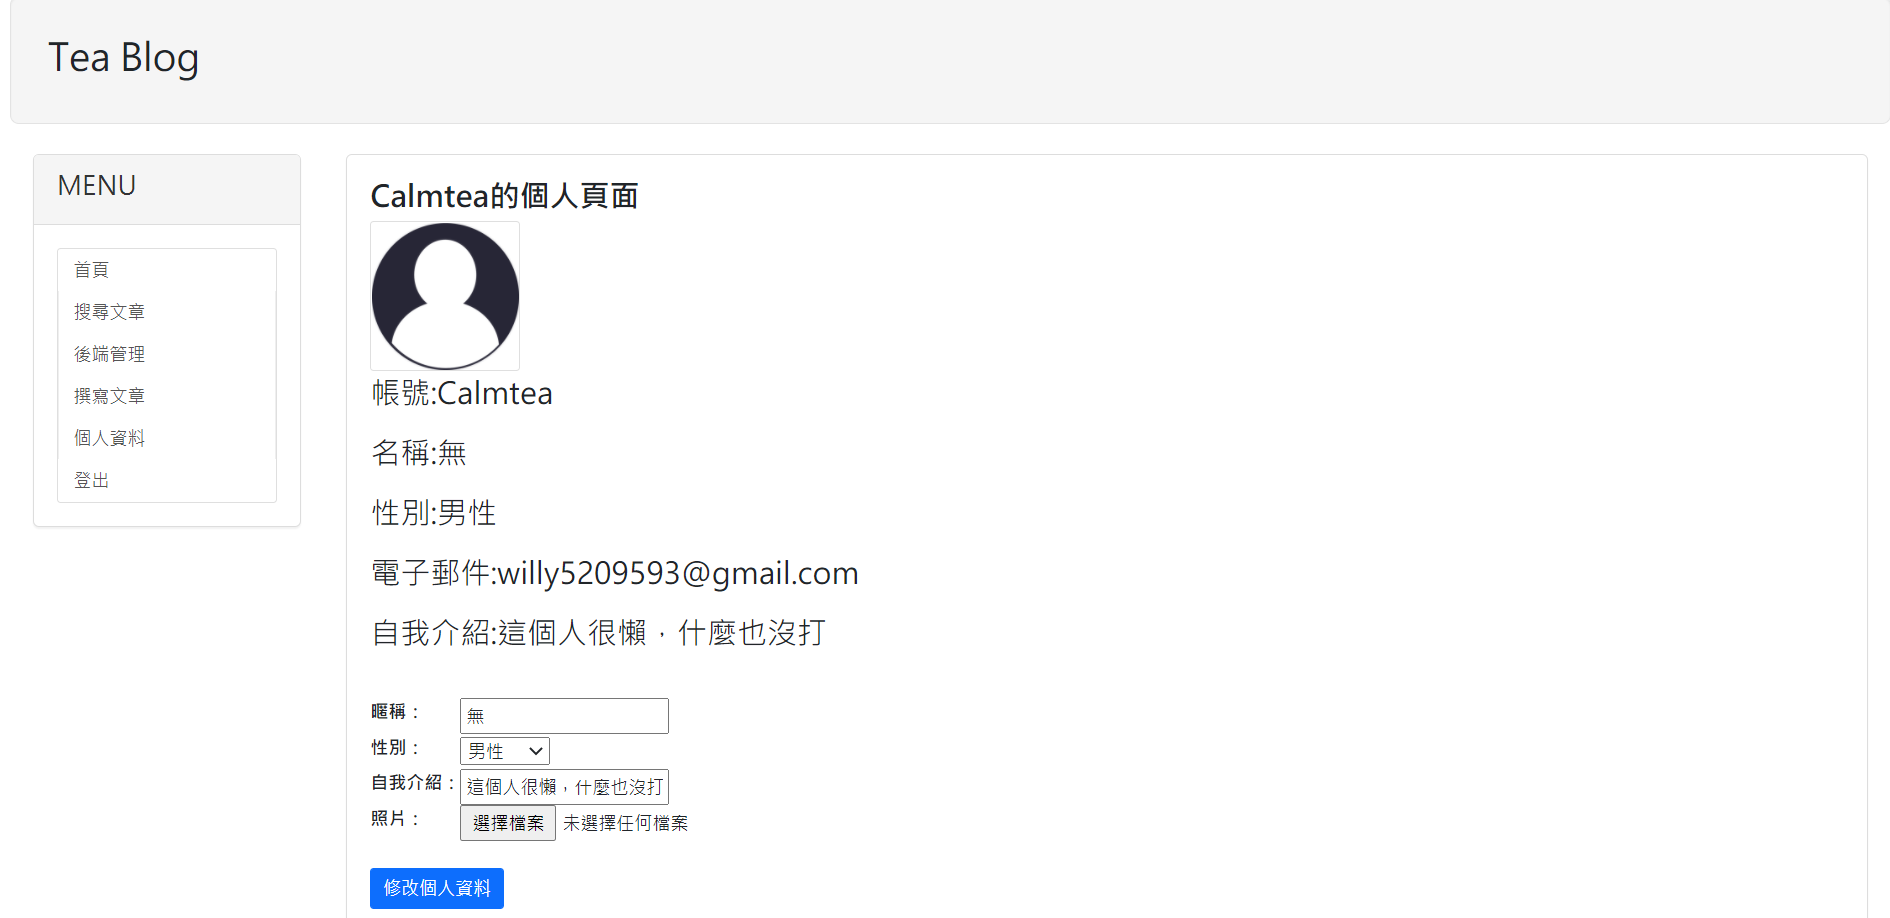
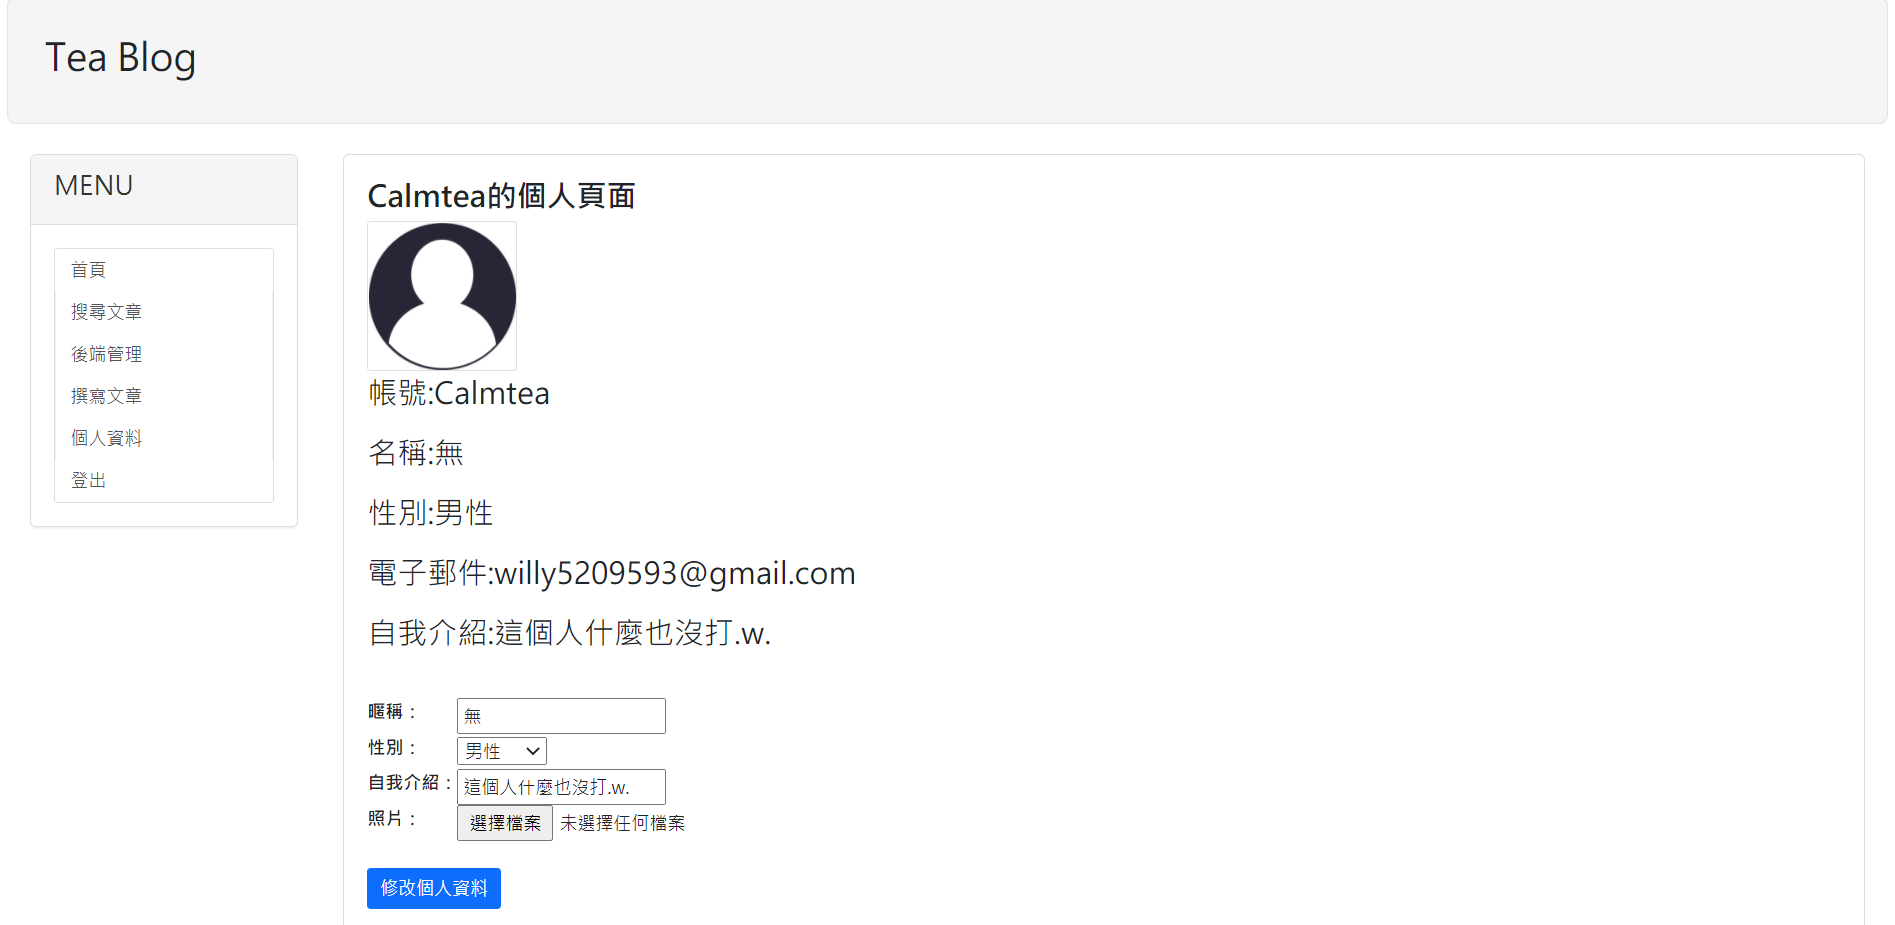
更改網站顯示圖片

diff --git a/mainsite/models.py b/mainsite/models.py
@@ -19,7 +19,7 @@ class Profile(models.Model):
     gender = models.CharField(u'性別',choices=GENDER,max_length=10,default='不公開')
     nickname = models.CharField(u"暱稱",max_length=20,default="無")
     image = models.ImageField(u'照片',upload_to='%Y/%m/%d/',default='default.png')
-    intro = models.CharField(u"自我介紹",default="這個人很懶，什麼也沒打",max_length=100)
+    intro = models.CharField(u"自我介紹",default="這個人什麼也沒打.w.",max_length=100)
     def __str__(self):
         return self.user.username
 
